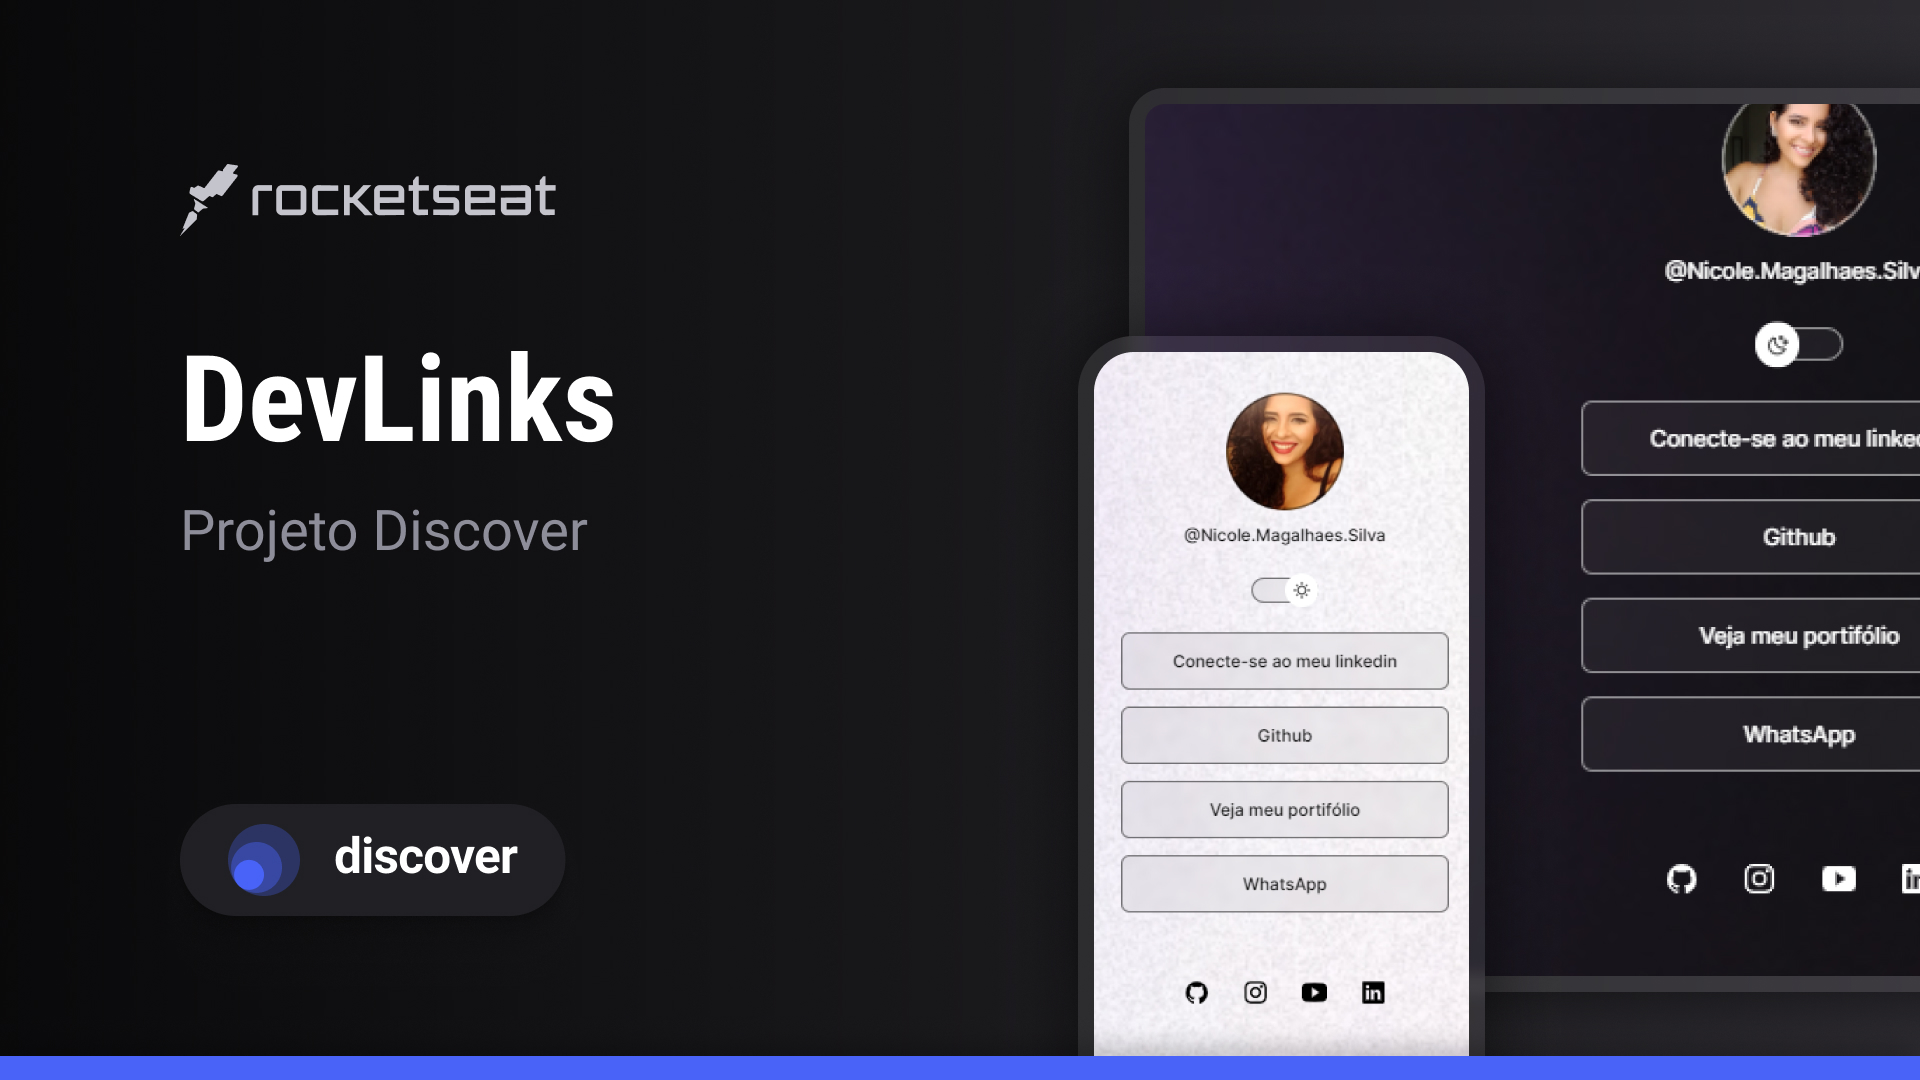
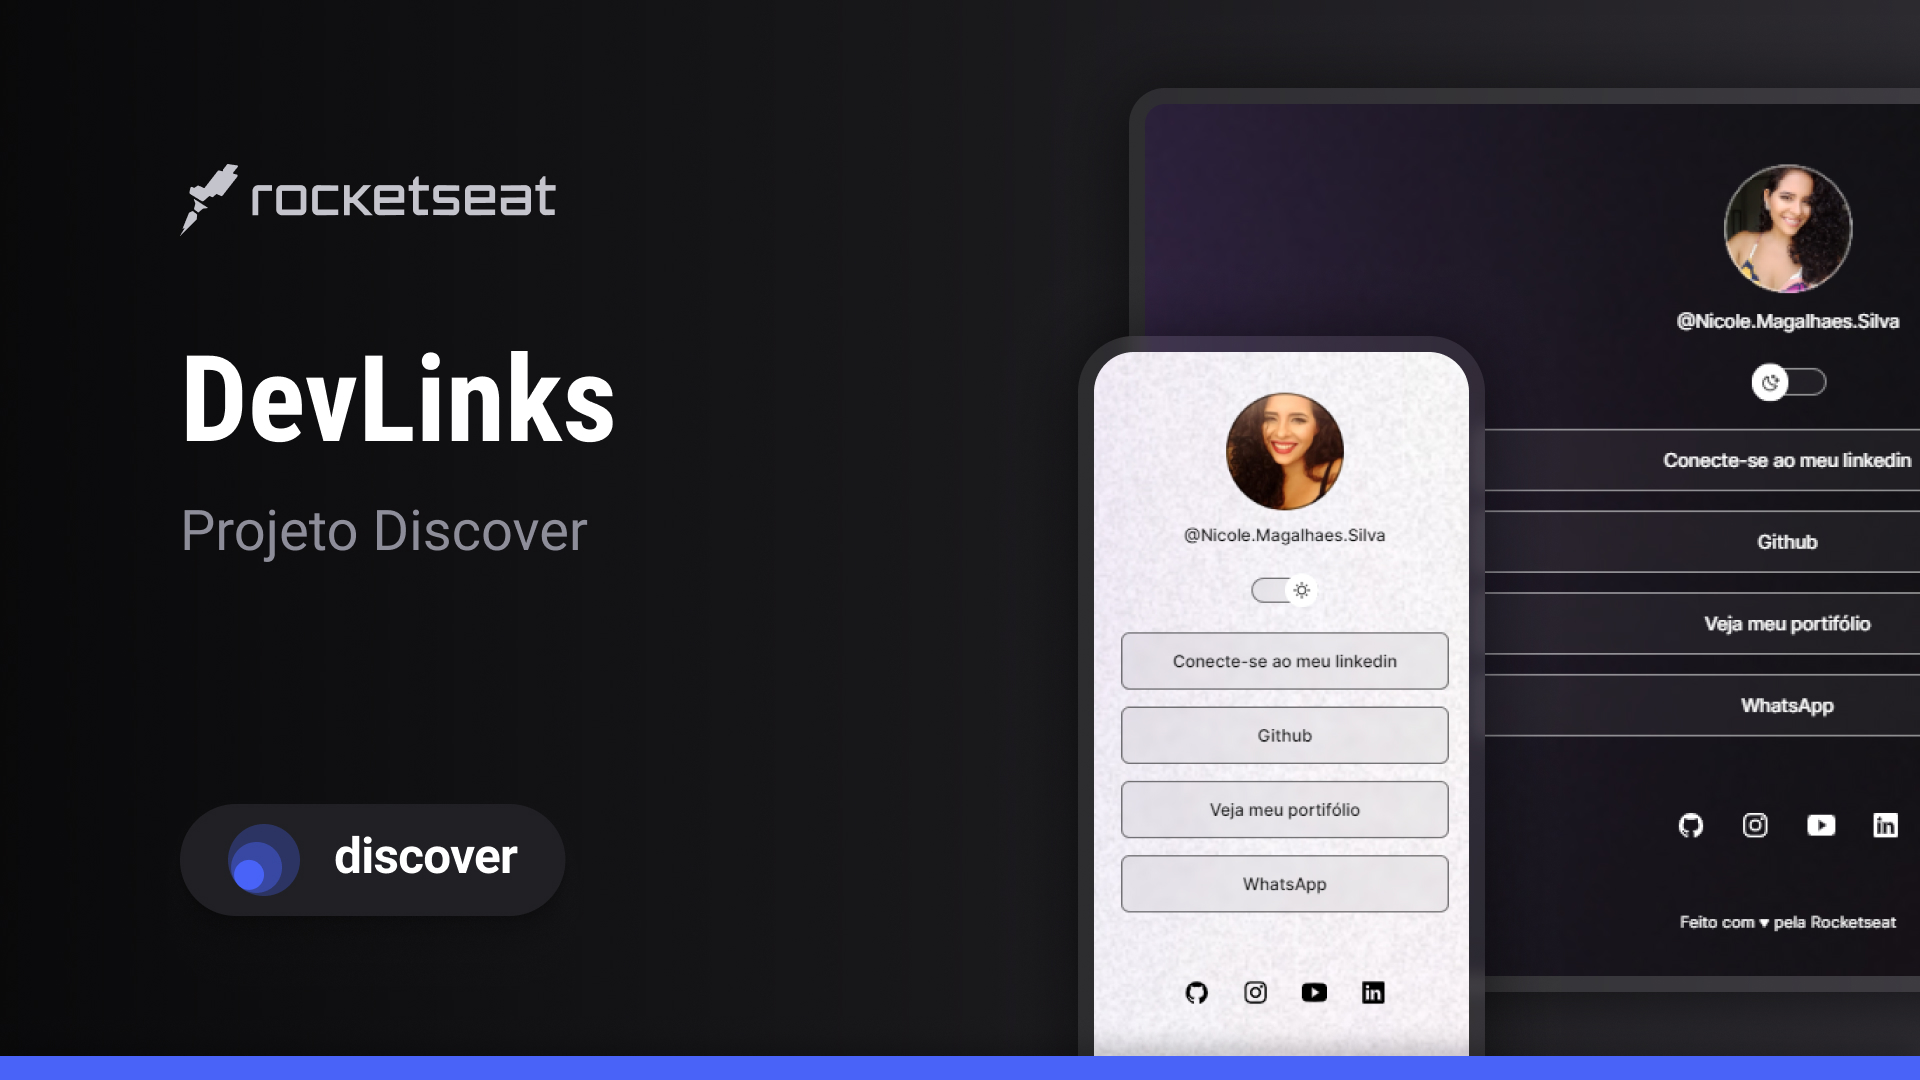
adjust container width

Changed region(s): [[0.7812, 0.0917, 1.0, 0.7028], [0.8438, 0.7333, 1.0, 0.8861], [0.8125, 0.6722, 0.8438, 0.7028]]

diff --git a/style.css b/style.css
@@ -42,7 +42,8 @@ body * {
 }
 
 #container {
-  width: 360px;
+  width: 100%;
+  max-width: 588px;
   margin: 56px auto 0px;
   padding: 0 24px;
 
